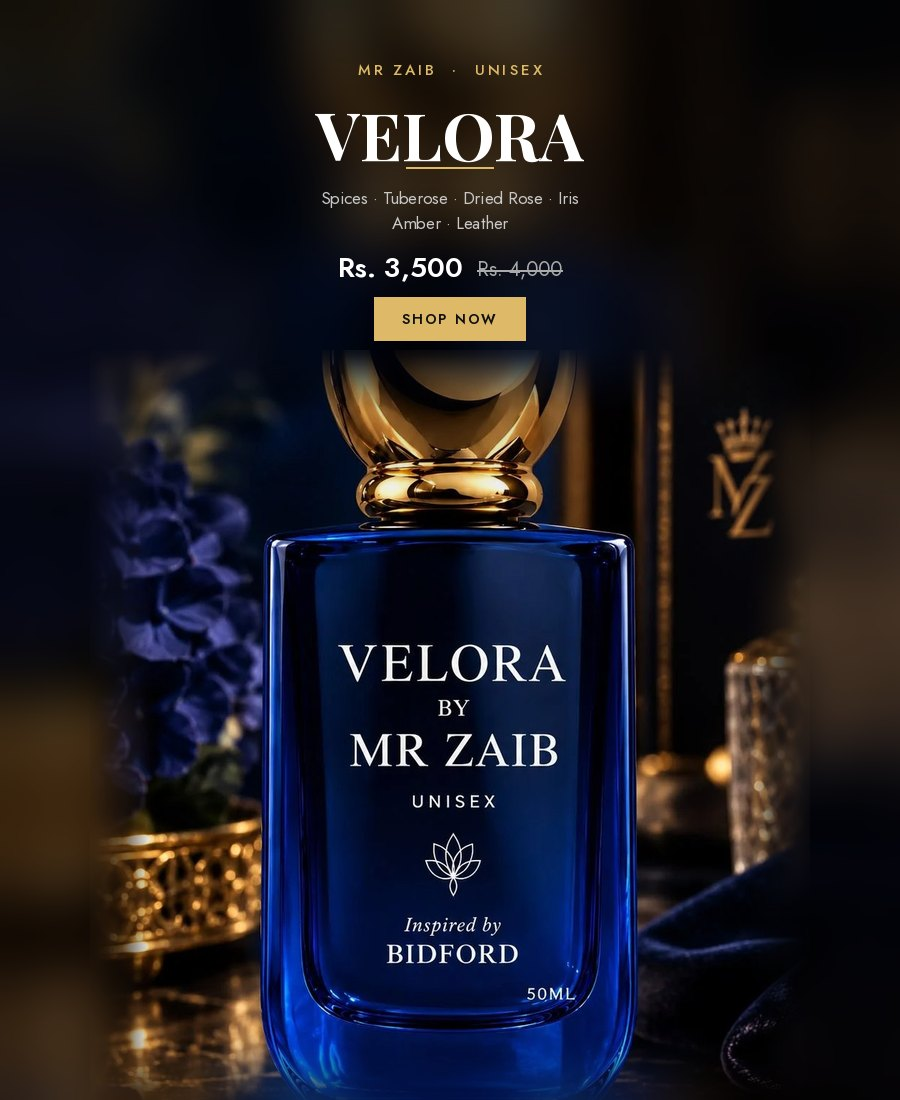
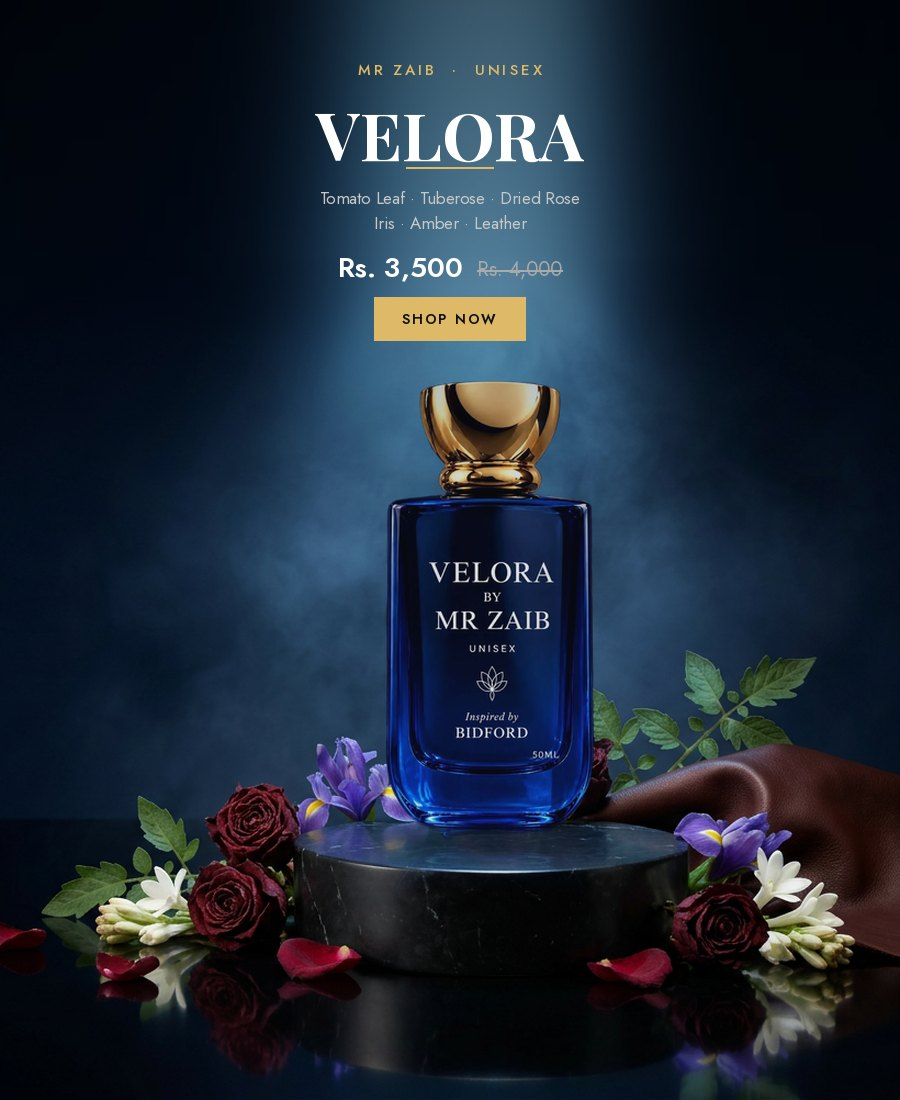
Hero 8-14 rebuilt as podium scenes like slides 1-7 (desktop+mobile); promo band v6: 13 bottles same size on marble riser; media re-import tags

diff --git a/inc/home-defaults.php b/inc/home-defaults.php
@@ -103,7 +103,7 @@ function mrzaib_video_product( $n ) {
  * as real media (with previews) and can be picked again from Media.
  * Only fields still using the theme default (or empty) are changed.
  */
-define( 'MRZAIB_HOME_MEDIA_V', 5 );
+define( 'MRZAIB_HOME_MEDIA_V', 6 );
 
 function mrzaib_home_media_items() {
 	$items = array();
@@ -113,12 +113,13 @@ function mrzaib_home_media_items() {
 		$items[ 'feat_icon_' . $i ]    = array( 'assets/images/icons/' . basename( mrzaib_feat_default_icon( $i ) ), mrzaib_feat_default_icon( $i ) );
 	}
 	foreach ( mrzaib_hero_defaults() as $i => $d ) {
-		$items[ 'hero_img_' . $i ] = array( 'assets/images/hero-' . $i . '-desktop.jpg', $d[0] );
-		$items[ 'hero_mob_' . $i ] = array( 'assets/images/hero-' . $i . '-mobile.jpg', $d[1] );
+		$tag                       = $i >= 8 ? 'v2' : ''; // v2 = podium scenes for RAAZ to Baraan.
+		$items[ 'hero_img_' . $i ] = array( 'assets/images/hero-' . $i . '-desktop.jpg', $d[0], $tag );
+		$items[ 'hero_mob_' . $i ] = array( 'assets/images/hero-' . $i . '-mobile.jpg', $d[1], $tag );
 	}
-	/* Third value = version tag: a new tag imports the updated file again (v5 = 13 bottles). */
-	$items['promo_img_d'] = array( 'assets/images/promo-band-desktop.jpg', MRZAIB_URI . '/assets/images/promo-band-desktop.jpg', 'v5' );
-	$items['promo_img_m'] = array( 'assets/images/promo-band-mobile.jpg', MRZAIB_URI . '/assets/images/promo-band-mobile.jpg', 'v5' );
+	/* Third value = version tag: a new tag imports the updated file again (v6 = 13 bottles on marble riser). */
+	$items['promo_img_d'] = array( 'assets/images/promo-band-desktop.jpg', MRZAIB_URI . '/assets/images/promo-band-desktop.jpg', 'v6' );
+	$items['promo_img_m'] = array( 'assets/images/promo-band-mobile.jpg', MRZAIB_URI . '/assets/images/promo-band-mobile.jpg', 'v6' );
 	return $items;
 }
 
